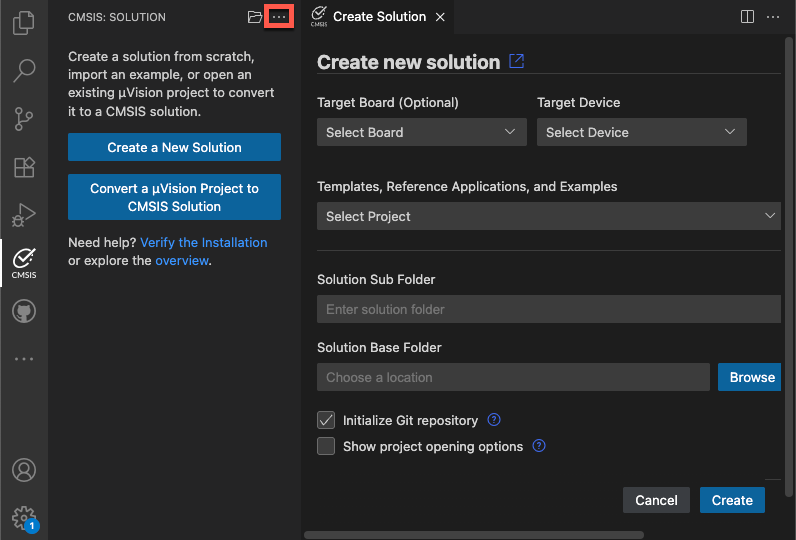
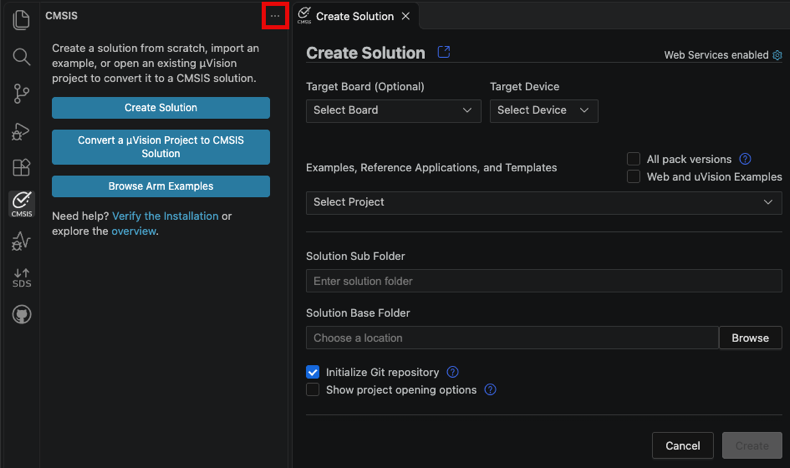
Fixed #628

diff --git a/docs/create_app.md b/docs/create_app.md
@@ -21,10 +21,6 @@ Examples, templates, and reference applications depend on the selected board or 
 - [**Templates**](#templates) are stub projects that help you getting started. Some CMSIS-Packs may contain
   device-specific templates.
 
-- [**GitHub repositories**](#github-repositories) may contain projects showcasing a specific use case. These repos can
-  be cloned directly into VS Code. The **Source Control** view ![Source control icon](./images/SourceControlView.png)
-  helps maintaining these repos.
-
 Further settings include:
 
 - The **Solution Sub Folder** is typically a sub-directory in your workspace.
@@ -35,6 +31,10 @@ Further settings include:
 
 - **Show project opening options** allows you to open the solution a new instance of VS Code. By default, it is loaded
   into the current VS Code instance.
+
+- Select **All pack versions** if you want to search for examples that are in an older pack version.
+
+- Enable **Web and uVision Examples** if you want to display examples from the web and legacy uVision examples.
 
 ## Examples
 
